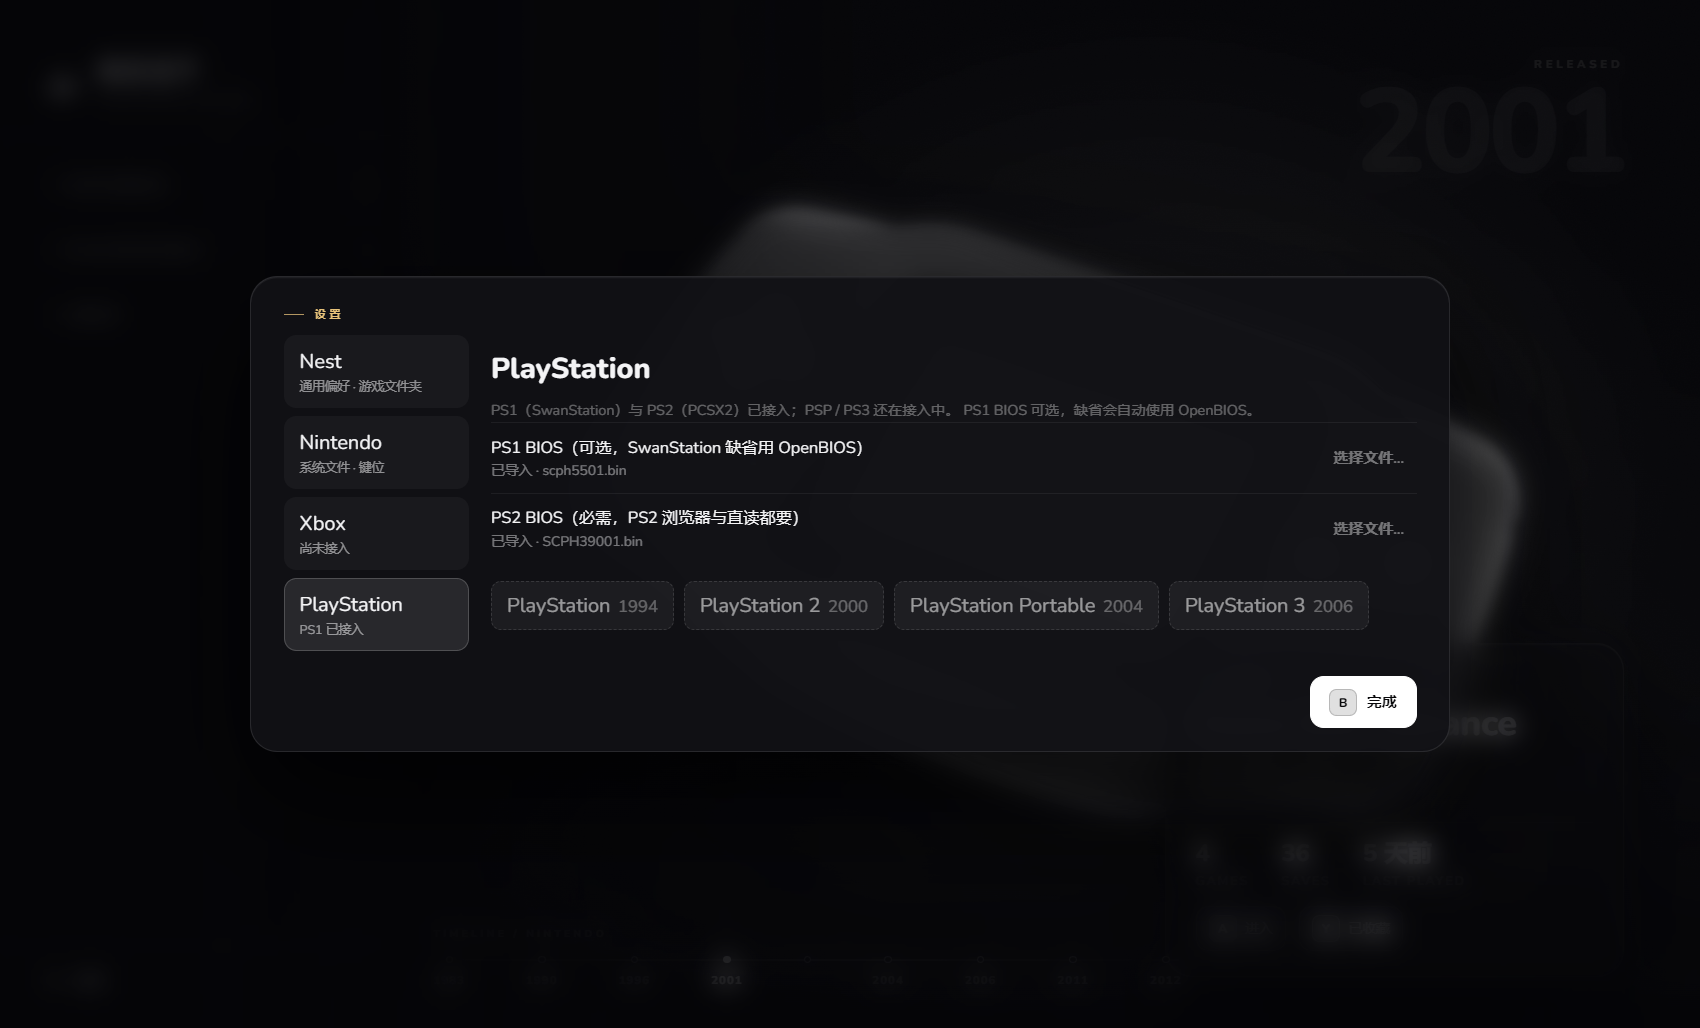
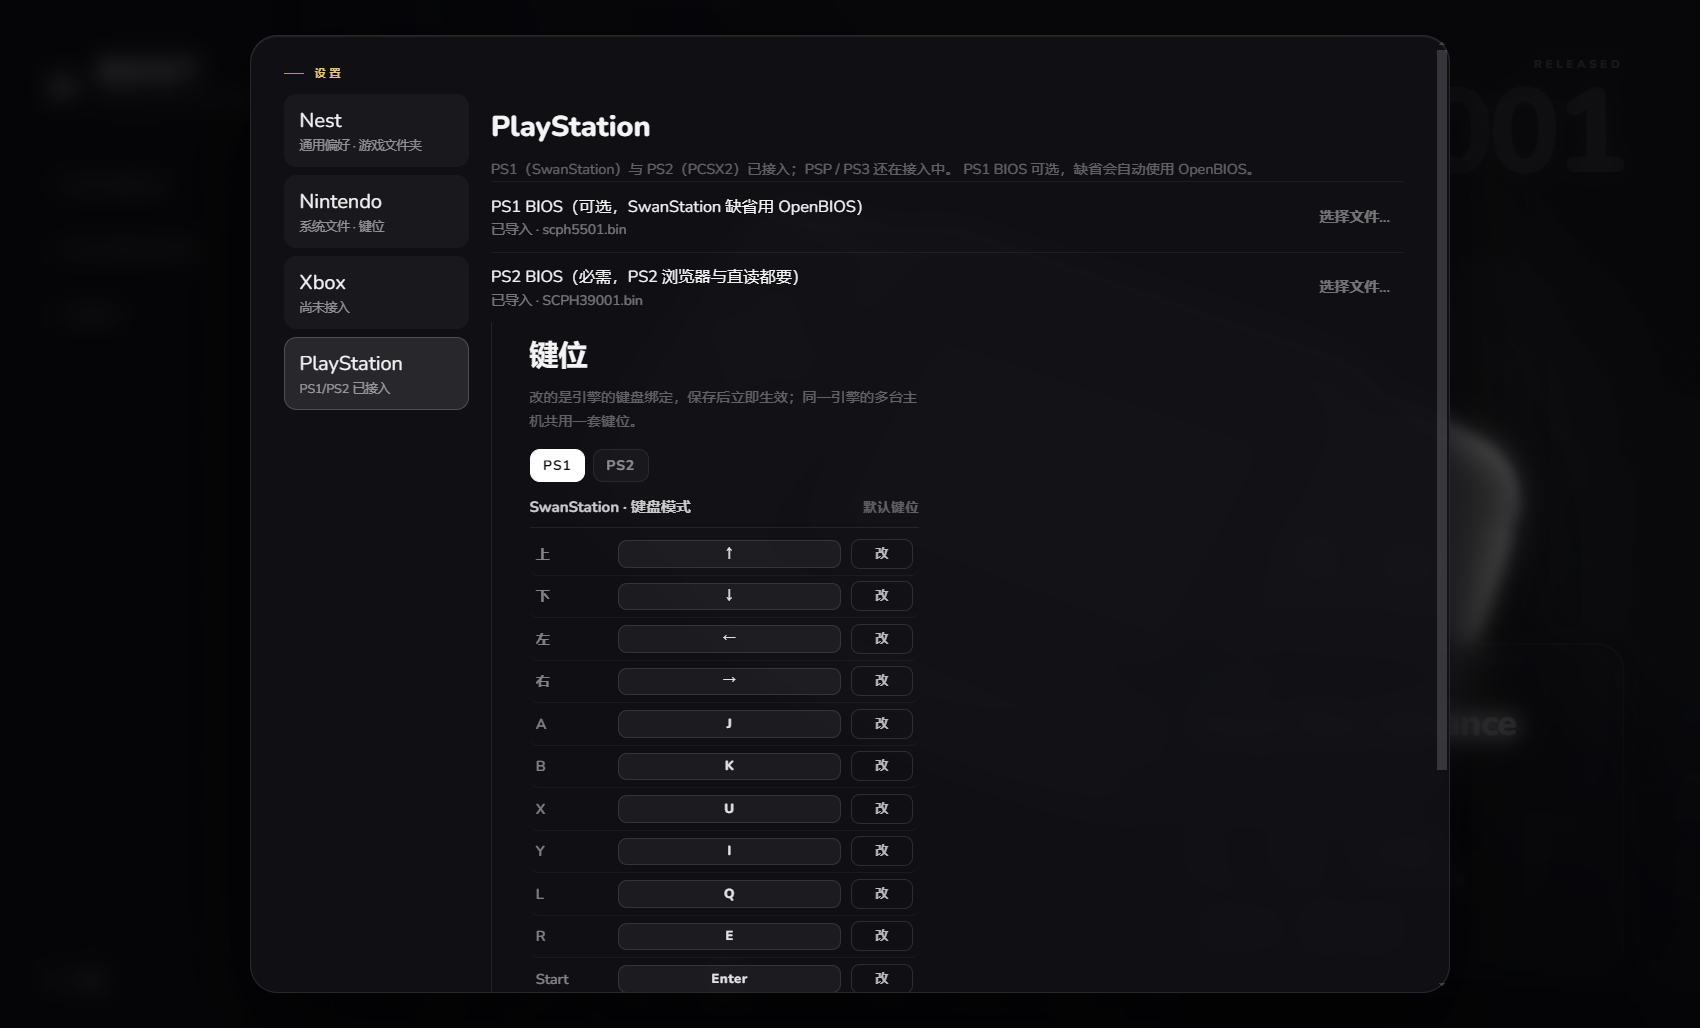
feat(settings): expose PS1/PS2 key panel in the PlayStation tab

diff --git a/src/renderer/src/App.tsx b/src/renderer/src/App.tsx
@@ -912,11 +912,139 @@ export default function App() {
     if (SETTINGS_TABS.some((tab) => tab.id === id)) setSettingsTab(id as SettingsTab);
   };
 
+  // Used by `--keysystem=<id>` screenshots: focus one console's key panel.
+  (window as unknown as Record<string, unknown>).__NEST_KEY_SYSTEM__ = (id: string) => {
+    if (KEY_SYSTEMS.some((system) => system.id === id)) {
+      setSettingsTab('playstation');
+      setKeySystemId(id as SystemId);
+    }
+  };
+
   // Used by `--cheat` screenshots: open the cheat editor for the first GBA game.
   (window as unknown as Record<string, unknown>).__NEST_OPEN_CHEAT__ = () => {
     const game = shelf?.games.find((g) => systemById.get(g.systemId as SystemId)?.engine === 'mgba');
     if (game) void openCheats(game);
   };
+
+  const keySystemsVisible = KEY_SYSTEMS.filter((system) => {
+    const playstation = system.engine === 'swanstation' || system.engine === 'pcsx2';
+    return settingsTab === 'playstation' ? playstation : !playstation;
+  });
+
+  const renderKeys = () => (
+<div className="settings-col keys-col">
+                  <h2>键位</h2>
+                  <p className="dlg-note">
+                    改的是引擎的键盘绑定，保存后立即生效；同一引擎的多台主机共用一套键位。
+                  </p>
+
+                  <div className="key-engines" role="group" aria-label="选择主机">
+                    {keySystemsVisible.map((system) => (
+                      <button
+                        key={system.id}
+                        className={`key-engine${system.id === keySystem.id ? ' on' : ''}`}
+                        title={`${system.name} · ${engineLabel(system.engine)}`}
+                        onClick={() => pickKeySystem(system.id)}
+                      >
+                        {system.short}
+                      </button>
+                    ))}
+                  </div>
+
+                  {keyView ? (
+                    <>
+                      <div className="key-meta">
+                        <span>
+                          {engineLabel(keyEngine)} · {keyView.mode === 'gamepad' ? '手柄模式' : '键盘模式'}
+                          {keyShared.length > 1 ? ` · ${keyShared.join(' / ')} 共用` : ''}
+                        </span>
+                        <small className={keyDirty ? 'dirty' : ''}>
+                          {!keyView.supported
+                            ? '暂不支持'
+                            : keyDirty
+                              ? '有未保存改动'
+                              : keyView.isCustom
+                                ? '已自定义'
+                                : '默认键位'}
+                        </small>
+                      </div>
+
+                      {!keyView.supported ? (
+                        <div className="key-unsupported">
+                          <p>该引擎键位格式尚未支持</p>
+                          <span>先用手柄，或进 {engineLabel(keyEngine)} 自己的设置里改键。</span>
+                        </div>
+                      ) : null}
+
+                      <div className={`key-group${keySupported ? '' : ' disabled'}`}>
+                        {PAD_ACTIONS.map((action) => {
+                          const code = keyBindings[action];
+                          const capturing = keyCapture === action;
+                          return (
+                            <div className={`key-row${capturing ? ' capturing' : ''}`} key={action}>
+                              <span className="key-name">{ACTION_LABEL[action]}</span>
+                              <span className={`key-badge${code ? '' : ' empty'}`}>
+                                {capturing ? '请按键…' : prettyKey(code)}
+                              </span>
+                              <button
+                                className="key-edit"
+                                disabled={!keySupported || keyBusy !== null}
+                                onClick={(event) => {
+                                  // Blur so the Space/Enter used to pick a key does not
+                                  // also re-activate this button on keyup.
+                                  event.currentTarget.blur();
+                                  if (capturing) {
+                                    setKeyCapture(null);
+                                    setKeyCaptureError(null);
+                                    return;
+                                  }
+                                  setKeyCapture(action);
+                                  setKeyCaptureError(null);
+                                }}
+                              >
+                                {capturing ? '取消' : '改'}
+                              </button>
+                            </div>
+                          );
+                        })}
+                      </div>
+
+                      {keyCapture ? (
+                        <p className="key-hint">
+                          按下要绑定的键 · Esc 取消
+                          {keyCaptureError ? ` · ${keyCaptureError}` : ''}
+                        </p>
+                      ) : keyCaptureError ? (
+                        <p className="key-hint err">{keyCaptureError}</p>
+                      ) : null}
+
+                      <div className="key-actions">
+                        <button
+                          className="ghost-btn"
+                          disabled={!keySupported || keyBusy !== null}
+                          onClick={() => void resetKeys()}
+                        >
+                          {keyBusy === 'reset' ? '恢复中…' : '恢复默认'}
+                        </button>
+                        <button
+                          className="dlg-btn primary"
+                          disabled={!keySupported || !keyDirty || keyBusy !== null}
+                          onClick={() => void saveKeys()}
+                        >
+                          {keyBusy === 'save' ? '保存中…' : '保存'}
+                        </button>
+                      </div>
+                    </>
+                  ) : controlsFailed ? (
+                    <p className="key-hint err">
+                      键位数据读取失败；等主进程的 controls IPC 就绪后重新打开设置。
+                    </p>
+                  ) : (
+                    <p className="key-hint">读取中…</p>
+                  )}
+                </div>
+  );
+
 
   return (
     <div
@@ -1502,118 +1630,9 @@ export default function App() {
                           <i className="switch" />
                         </label>
                   </div>
-                <div className="settings-col keys-col">
-                  <h2>键位</h2>
-                  <p className="dlg-note">
-                    改的是引擎的键盘绑定，保存后立即生效；同一引擎的多台主机共用一套键位。
-                  </p>
-
-                  <div className="key-engines" role="group" aria-label="选择主机">
-                    {KEY_SYSTEMS.map((system) => (
-                      <button
-                        key={system.id}
-                        className={`key-engine${system.id === keySystem.id ? ' on' : ''}`}
-                        title={`${system.name} · ${engineLabel(system.engine)}`}
-                        onClick={() => pickKeySystem(system.id)}
-                      >
-                        {system.short}
-                      </button>
-                    ))}
-                  </div>
-
-                  {keyView ? (
-                    <>
-                      <div className="key-meta">
-                        <span>
-                          {engineLabel(keyEngine)} · {keyView.mode === 'gamepad' ? '手柄模式' : '键盘模式'}
-                          {keyShared.length > 1 ? ` · ${keyShared.join(' / ')} 共用` : ''}
-                        </span>
-                        <small className={keyDirty ? 'dirty' : ''}>
-                          {!keyView.supported
-                            ? '暂不支持'
-                            : keyDirty
-                              ? '有未保存改动'
-                              : keyView.isCustom
-                                ? '已自定义'
-                                : '默认键位'}
-                        </small>
-                      </div>
-
-                      {!keyView.supported ? (
-                        <div className="key-unsupported">
-                          <p>该引擎键位格式尚未支持</p>
-                          <span>先用手柄，或进 {engineLabel(keyEngine)} 自己的设置里改键。</span>
-                        </div>
-                      ) : null}
-
-                      <div className={`key-group${keySupported ? '' : ' disabled'}`}>
-                        {PAD_ACTIONS.map((action) => {
-                          const code = keyBindings[action];
-                          const capturing = keyCapture === action;
-                          return (
-                            <div className={`key-row${capturing ? ' capturing' : ''}`} key={action}>
-                              <span className="key-name">{ACTION_LABEL[action]}</span>
-                              <span className={`key-badge${code ? '' : ' empty'}`}>
-                                {capturing ? '请按键…' : prettyKey(code)}
-                              </span>
-                              <button
-                                className="key-edit"
-                                disabled={!keySupported || keyBusy !== null}
-                                onClick={(event) => {
-                                  // Blur so the Space/Enter used to pick a key does not
-                                  // also re-activate this button on keyup.
-                                  event.currentTarget.blur();
-                                  if (capturing) {
-                                    setKeyCapture(null);
-                                    setKeyCaptureError(null);
-                                    return;
-                                  }
-                                  setKeyCapture(action);
-                                  setKeyCaptureError(null);
-                                }}
-                              >
-                                {capturing ? '取消' : '改'}
-                              </button>
-                            </div>
-                          );
-                        })}
-                      </div>
-
-                      {keyCapture ? (
-                        <p className="key-hint">
-                          按下要绑定的键 · Esc 取消
-                          {keyCaptureError ? ` · ${keyCaptureError}` : ''}
-                        </p>
-                      ) : keyCaptureError ? (
-                        <p className="key-hint err">{keyCaptureError}</p>
-                      ) : null}
-
-                      <div className="key-actions">
-                        <button
-                          className="ghost-btn"
-                          disabled={!keySupported || keyBusy !== null}
-                          onClick={() => void resetKeys()}
-                        >
-                          {keyBusy === 'reset' ? '恢复中…' : '恢复默认'}
-                        </button>
-                        <button
-                          className="dlg-btn primary"
-                          disabled={!keySupported || !keyDirty || keyBusy !== null}
-                          onClick={() => void saveKeys()}
-                        >
-                          {keyBusy === 'save' ? '保存中…' : '保存'}
-                        </button>
-                      </div>
-                    </>
-                  ) : controlsFailed ? (
-                    <p className="key-hint err">
-                      键位数据读取失败；等主进程的 controls IPC 就绪后重新打开设置。
-                    </p>
-                  ) : (
-                    <p className="key-hint">读取中…</p>
-                  )}
+                {renderKeys()}
                 </div>
-                </div>
+
               ) : settingsTab === 'playstation' ? (
                 <div className="settings-panel">
                   <h2>PlayStation</h2>
@@ -1641,6 +1660,8 @@ export default function App() {
                         </button>
                       </div>
                     ))}
+                  <div className="settings-cols keys-single">{renderKeys()}</div>
+
                   <div className="locked-systems">
                     {(families.find((family) => family.id === 'playstation')?.systems ?? []).map((system) => (
                       <span key={system.id}>

diff --git a/src/main/ipc.ts b/src/main/ipc.ts
@@ -974,6 +974,9 @@ export function registerIpc(services: Services): void {
 
     // Apply immediately so the next launch (and the next in-game session) uses
     // the new keys without restarting Nest.
+    if (engineId === 'pcsx2') {
+      ensurePcsx2Data(app.getPath('userData'), path.join(enginesDir(), 'pcsx2', 'seed'));
+    }
     const result = applyControls(services, engineId, true, {
       gamepads: engineId === 'azahar' ? countGamepads() : undefined,
       mode: controls.mode,
@@ -991,6 +994,9 @@ export function registerIpc(services: Services): void {
     delete controlsMap[engineId];
     await store.setSettings({ controls: controlsMap });
 
+    if (engineId === 'pcsx2') {
+      ensurePcsx2Data(app.getPath('userData'), path.join(enginesDir(), 'pcsx2', 'seed'));
+    }
     const result = applyControls(services, engineId, true, {
       gamepads: engineId === 'azahar' ? countGamepads() : undefined,
     });

diff --git a/src/main/index.ts b/src/main/index.ts
@@ -483,6 +483,12 @@ async function boot(): Promise<void> {
                 `window.__NEST_SETTINGS_TAB__ && window.__NEST_SETTINGS_TAB__(${JSON.stringify(stab.slice('--stab='.length))}); true`,
               );
             }
+            const keysystem = process.argv.find((arg) => arg.startsWith('--keysystem='));
+            if (keysystem) {
+              await mainWindow!.webContents.executeJavaScript(
+                `window.__NEST_KEY_SYSTEM__ && window.__NEST_KEY_SYSTEM__(${JSON.stringify(keysystem.slice('--keysystem='.length))}); true`,
+              );
+            }
           }
           if (process.argv.includes('--menu')) {
             await mainWindow!.webContents.executeJavaScript(

diff --git a/docs/nintendo/CHANGELOG.md b/docs/nintendo/CHANGELOG.md
@@ -25,6 +25,7 @@
 - 主机墙：PlayStation 排到 Xbox 前面；所有家族默认折叠
 - **PS2 接入（PCSX2 2.8.2）**：内置 PCSX2（含 VC++ 运行库，避免旧运行库弹窗）；`-datapath` 隔离数据；PS2 BIOS 导入（4 MB 校验）；`-bios` 系统模式 = PS2 浏览器；扫描 `.iso`（PLAYSTATION 标记）
 - PS2 键位接入 Nest 面板（`PCSX2.ini` 的 `[Pad1]`，`Keyboard/` 绑定写入）
+- 键位面板补全：PlayStation 设置页现在有独立的键位面板（PS1 / PS2 芯片，按家族过滤），保存后启动即生效
 - 无游戏时用带 PLAYSTATION 标记的假 ISO 验证了「扫描 → 启动 → 进程」链路
 
 ## 0.4.1-beta.1 — 2026-11-03 · NDS/DSi 整条线 + 设置拆分 + GBA 金手指
